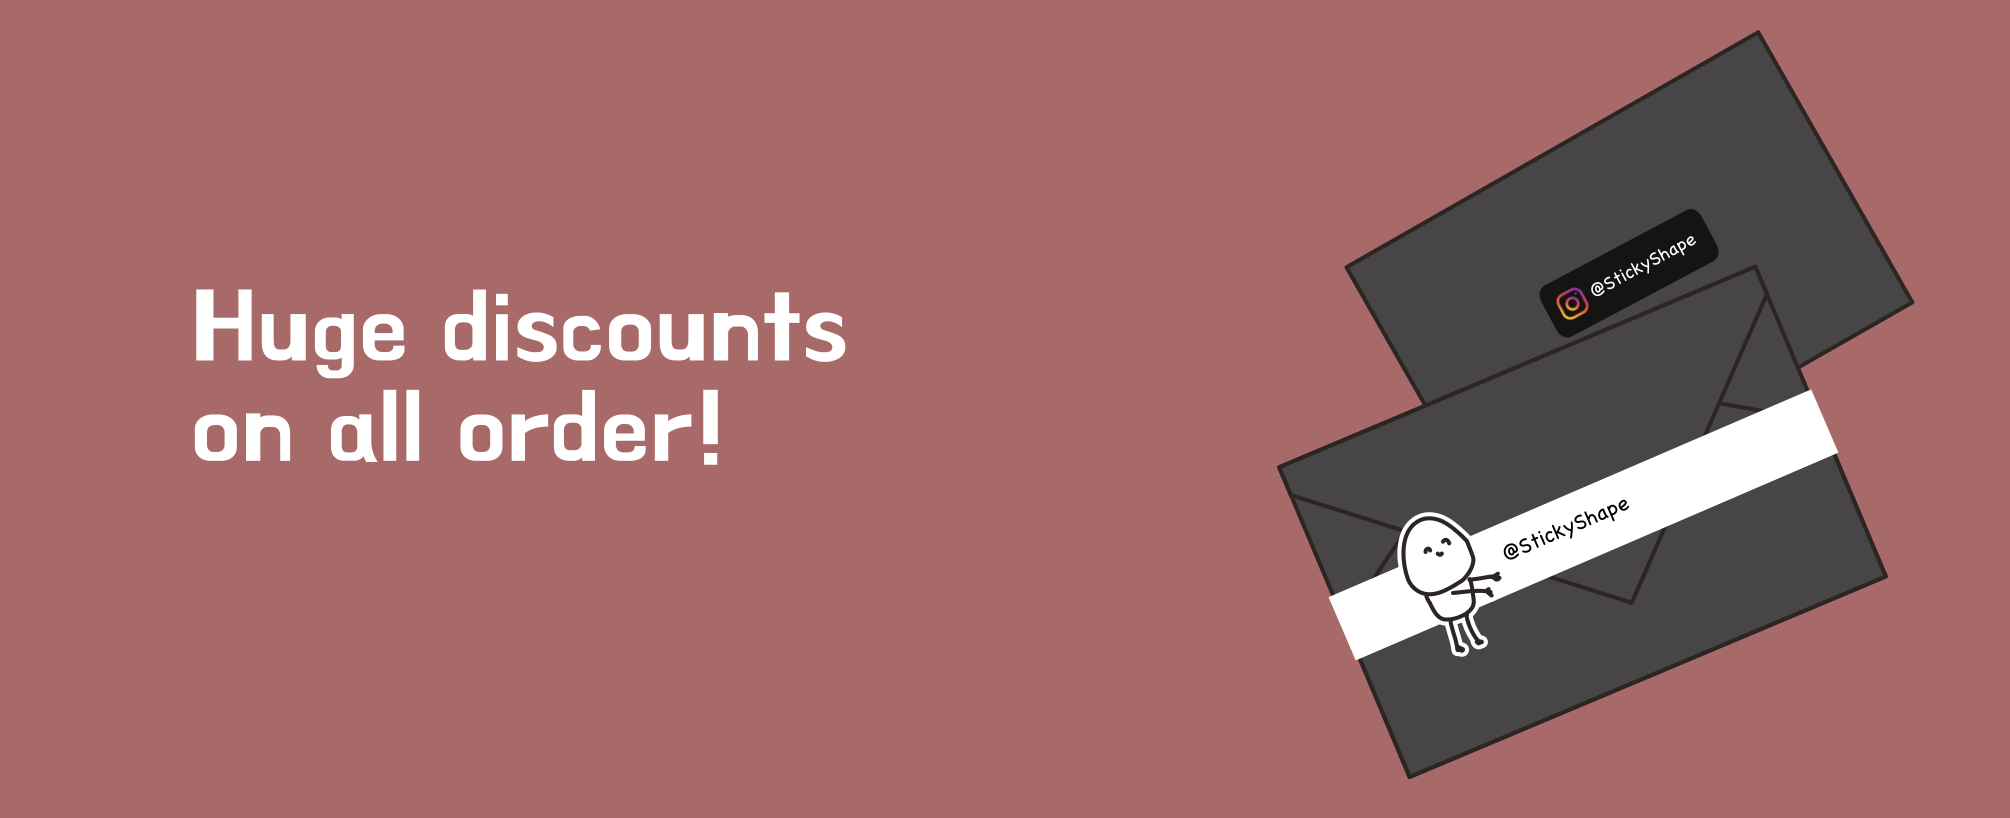
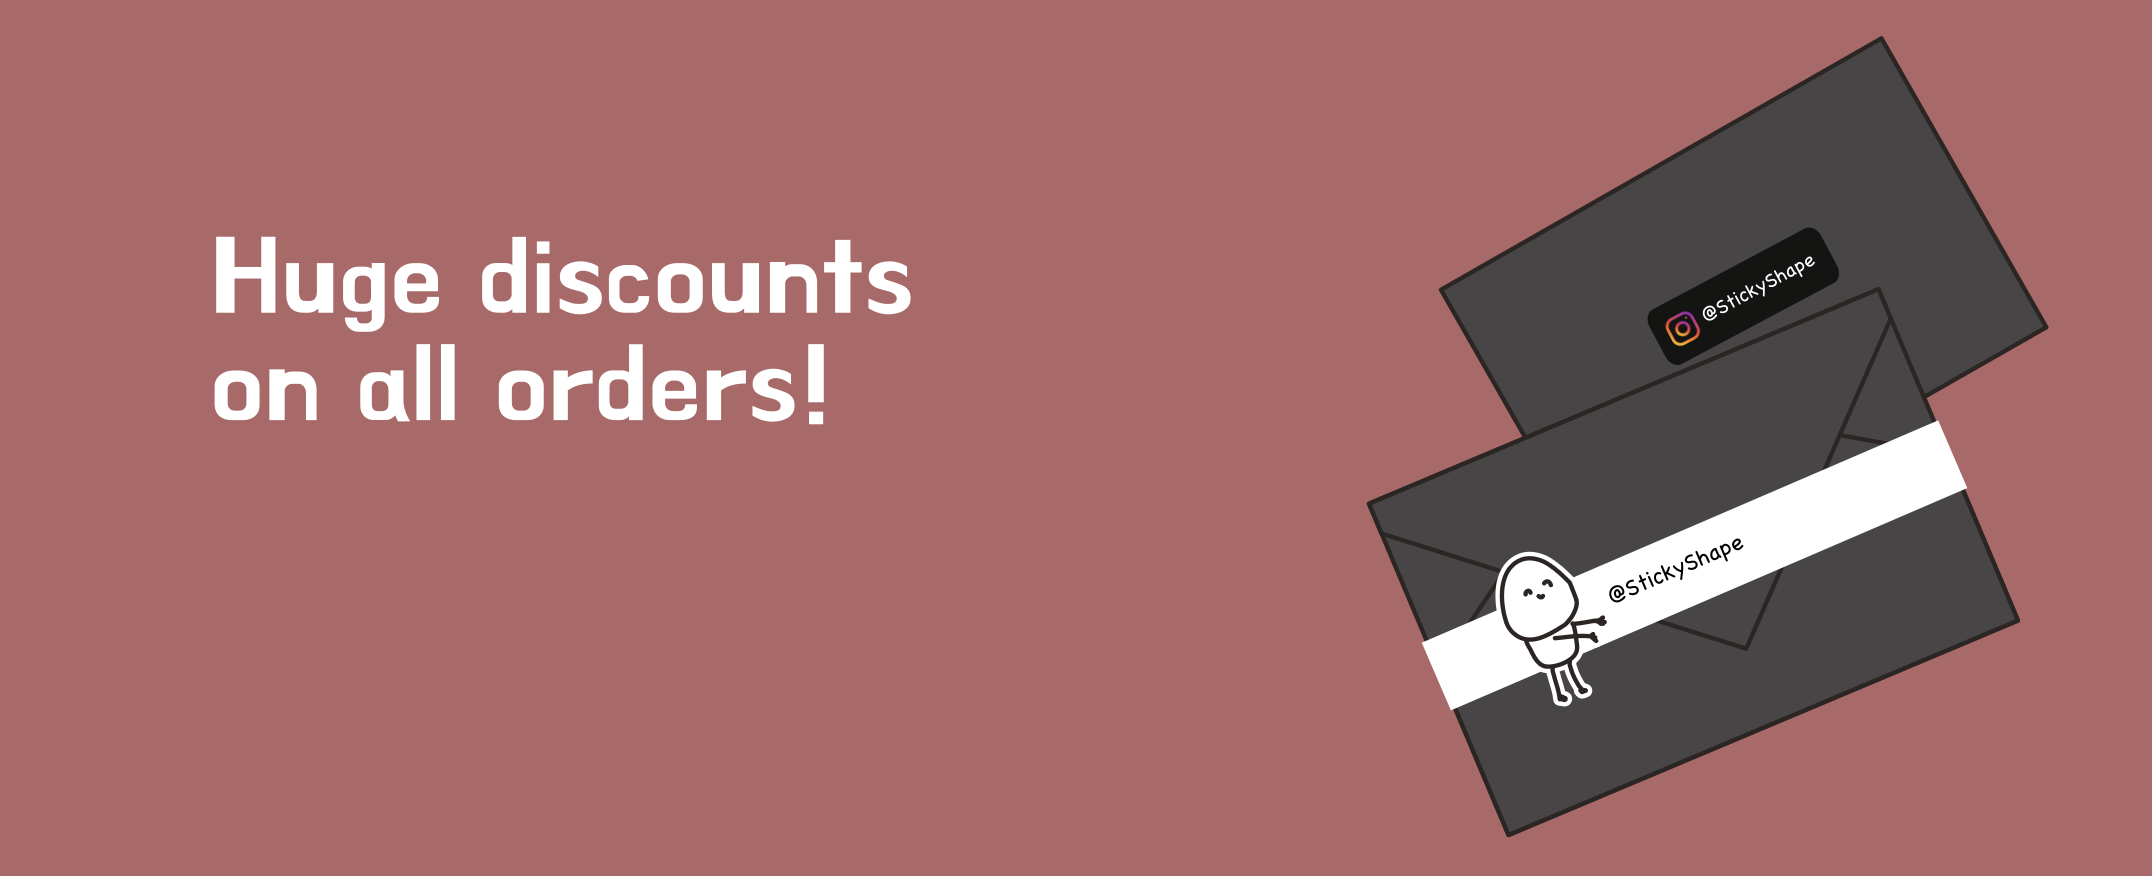
Promo Images Updated

diff --git a/PratyushDoodlesApp/templates/shop.html b/PratyushDoodlesApp/templates/shop.html
@@ -41,7 +41,7 @@
                         </div>
                         <div class="carousel-inner" style="border-radius: 10px;">
                             <div class="carousel-item active" data-bs-interval="3000" style="border-radius: 10px;">
-                                <img src="{{ url_for('static', filename='images/promos/promo_3.png') }}?update=3" class="d-block w-100" alt="..."
+                                <img src="{{ url_for('static', filename='images/promos/promo_3.png') }}?update=4" class="d-block w-100" alt="..."
                                     style=" border-radius: 10px;">
                             </div>
                         </div>
@@ -59,7 +59,7 @@
                         </div>
                         <div class="carousel-inner" style="border-radius: 10px;">
                             <div class="carousel-item active" data-bs-interval="3000" style="border-radius: 10px;">
-                                <img src="{{ url_for('static', filename='images/promos/promo_4.png') }}?update=3" class="d-block w-100" alt="..."
+                                <img src="{{ url_for('static', filename='images/promos/promo_4.png') }}?update=4" class="d-block w-100" alt="..."
                                     style=" border-radius: 10px;">
                             </div>
                         </div>
@@ -81,11 +81,11 @@
                         </div>
                         <div class="carousel-inner" style="border-radius: 10px;">
                             <div class="carousel-item active" data-bs-interval="5000" style="border-radius: 10px;">
-                                <img src="{{ url_for('static', filename='images/promos/promo_1.png') }}?update=3" class="d-block w-100" alt="..."
+                                <img src="{{ url_for('static', filename='images/promos/promo_1.png') }}?update=4" class="d-block w-100" alt="..."
                                     style=" border-radius: 10px;">
                             </div>
                             <div class="carousel-item" data-bs-interval="5000" style="border-radius: 10px;">
-                                <img src="{{ url_for('static', filename='images/promos/promo_2.png') }}?update=3" class="d-block w-100"
+                                <img src="{{ url_for('static', filename='images/promos/promo_2.png') }}?update=4" class="d-block w-100"
                                     alt="..." style=" border-radius: 10px;">
                             </div>
                         </div>

diff --git a/PratyushDoodlesApp/templates/ui/product_card.html b/PratyushDoodlesApp/templates/ui/product_card.html
@@ -4,7 +4,7 @@
 <div class="wsk-cp-product-style-1 hover-auto-transition-product" style="width: 300px; padding: 0px;">
     <div class="product-images">
         {% for product_image in product.product_images %}
-        <img class="wsk-cp-img img-responsive" src="{{ product_image.picture_url }}?update=3" alt="Product"  loading="lazy"/>
+        <img class="wsk-cp-img img-responsive" src="{{ product_image.picture_url }}?update=4" alt="Product"  loading="lazy"/>
         {% endfor %}
     </div>
 
@@ -36,7 +36,7 @@
 <div class="wsk-cp-product hover-auto-transition-product" style="width: 300px; padding: 0px;">
     <div class="product-images">
         {% for product_image in product.product_images %}
-        <img class="wsk-cp-img img-responsive" src="{{ product_image.picture_url }}?update=3" alt="Product"  loading="lazy"/>
+        <img class="wsk-cp-img img-responsive" src="{{ product_image.picture_url }}?update=4" alt="Product"  loading="lazy"/>
         {% endfor %}
         <b class="card-tag wcf-left" product_highlight = "{{ product.product_highlight }}" onclick="seletedTagFilter(this)"> {{product.product_highlight }} </b>
     </div>

diff --git a/PratyushDoodlesApp/templates/ui/cart_item.html b/PratyushDoodlesApp/templates/ui/cart_item.html
@@ -1,7 +1,7 @@
 <div class="container-fluid">
     <div class="row justify-content-between">
         <div class="col-3 cart-item-image rounded-3">
-            <img src="{{ product.product_images[0].picture_url }}?update=3"  alt="Product" class="ic-80" />
+            <img src="{{ product.product_images[0].picture_url }}?update=4"  alt="Product" class="ic-80" />
         </div>
         <div class="col-7">
             <div class="row">
